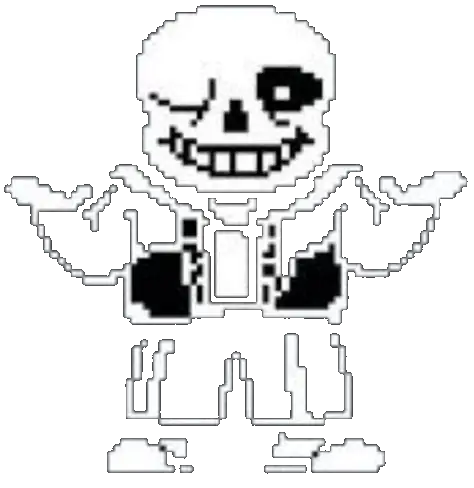
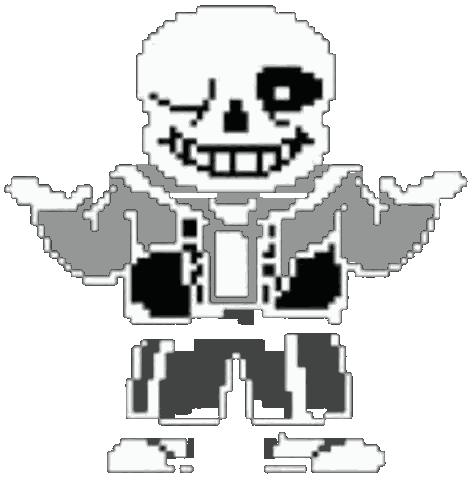
Sans sprites: fill transparent jacket/pants (grey tones, black pockets) so the body is no longer invisible; cache-bust
Claude-Session: https://claude.ai/code/session_015dETkK63Reb6JNnJAvDzmD

diff --git a/index.html b/index.html
@@ -1156,11 +1156,11 @@
     const SANS_HURT = new Image();
     let SANS_HURT_O = null;
     SANS_HURT.onload = () => { SANS_HURT_O = outlineSprite(SANS_HURT, 5, '#0b0b0b'); };
-    SANS_HURT.src = 'assets/sans-hurt.png';            // Sans ngồi gục
+    SANS_HURT.src = 'assets/sans-hurt.png?v=2';            // Sans ngồi gục
     const SANS_CUT = new Image();
     let SANS_CUT_O = null;
     SANS_CUT.onload = () => { SANS_CUT_O = outlineSprite(SANS_CUT, 4, '#0b0b0b'); };
-    SANS_CUT.src = 'assets/sans-cut.png';              // Sans đứng, vết chém đỏ ngang ngực
+    SANS_CUT.src = 'assets/sans-cut.png?v=2';              // Sans đứng, vết chém đỏ ngang ngực
     function outlineSprite(img, o, col) {                            // viền đen quanh sprite trắng cho dễ nhìn trên nền sáng
       const c = document.createElement('canvas'); c.width = img.width + o * 2; c.height = img.height + o * 2;
       const g = c.getContext('2d'), k = document.createElement('canvas'); k.width = img.width; k.height = img.height;
@@ -2348,7 +2348,7 @@
     // ----- Chuyển slide trong chế độ tim xanh -----
     // Chuyển tới slide kế (dir = +1: click, chém) hoặc slide trước (dir = -1: Backspace, tan)
     // ----- Slide 9.5 (Sans quiz): không có trong danh sách tim đỏ / tim xanh, chỉ xuất hiện khi bấm tiếp từ slide 9 ở chế độ tim xanh -----
-    const QUIZ_V = '20261124a';
+    const QUIZ_V = '20261124b';
     const quiz = { on: false };
     const quizEl = document.getElementById('quiz95');
     // Tải sẵn nhạc kết trong lúc người xem ở slide 9.5: vào slide 10 là chạy ngay (trình duyệt dùng lại bản đã tải)
@@ -2362,7 +2362,7 @@
     let quizWarm = false;
     function prefetchQuiz() {
       if (quizWarm) return; quizWarm = true;
-      const small = ['slide95-sans.html?embed&v=' + QUIZ_V, 'assets/papyrus.png', 'assets/papyrus-bw-anim.png', 'assets/papyrus-faces.png', 'assets/papyrus-head.png', 'assets/cauldron-px.png', 'assets/sans-head.png', 'assets/sans-shake.png', 'assets/sans-shrug.png', 'assets/sans-sleep.png', 'assets/gaster.png', 'assets/gaster-b.png',
+      const small = ['slide95-sans.html?embed&v=' + QUIZ_V, 'assets/papyrus.png', 'assets/papyrus-bw-anim.png', 'assets/papyrus-faces.png', 'assets/papyrus-head.png', 'assets/cauldron-px.png', 'assets/sans-head.png', 'assets/sans-shake.png?v=2', 'assets/sans-shrug.png?v=2', 'assets/sans-sleep.png?v=2', 'assets/gaster.png', 'assets/gaster-b.png',
         'assets/sfx-correct.mp3', 'assets/sfx-nuhuh.mp3', 'assets/sfx-prize.mp3', 'assets/sfx-rock.mp3', 'assets/sfx-sans-talk.mp3', 'assets/sfx-pap-nyeh.mp3', 'assets/sfx-pap-talk.mp3', 'assets/sfx-gaster-talk.mp3', 'assets/sfx-gaster-vanish.mp3', 'assets/sfx-wheel.mp3'];
       const big = ['assets/music-sans-select.mp3', 'assets/music-papyrus.mp3', 'assets/music-gaster.mp3', 'assets/music-megalovania.mp3'];
       (async () => { for (const u of small.concat(big)) { try { const r = await fetch(u); await r.blob(); } catch (e) { } await new Promise((res) => setTimeout(res, 150)); } })();
@@ -3101,7 +3101,7 @@
       tasks.push(['Fonts', font("16px 'Press Start 2P'", 'font1')], ['Fonts', font("700 20px Tinos", 'font2')], ['Fonts', font("400 20px 'Public Sans'", 'font3')]);
       slideImages.forEach((p, i) => tasks.push(['Slide ' + (i + 1), img(p)]));
       Object.values(START_IMG).forEach((p) => tasks.push(['Slide', img(p)]));
-      ['anim-blank.png', 'watch.png', 'spear.png', 'blaster.png', 'sans-cut.png', 'sans-hurt.png', 'stage.jpg', 's3-tram.jpg', 's4-tram.jpg', 's5-kitchen.jpg', 's6-water.jpg', 's7-games.jpg', 's7-tv.jpg', 's8-past.jpg', 's8-present.jpg',
+      ['anim-blank.png', 'watch.png', 'spear.png', 'blaster.png', 'sans-cut.png?v=2', 'sans-hurt.png?v=2', 'stage.jpg', 's3-tram.jpg', 's4-tram.jpg', 's5-kitchen.jpg', 's6-water.jpg', 's7-games.jpg', 's7-tv.jpg', 's8-past.jpg', 's8-present.jpg',
         'anim-brush.png', 'anim-pencil.png', 'icon-designer.png', 'icon-image.png', 'icon-presenter.png', 'icon-researcher.png'].forEach((f) => tasks.push(['Images', img('assets/' + f)]));
       tasks.push(['Style', get('slides.css')], ['Effects', get('fx-post.js')]);
       AUD.list.forEach((a) => { if (a.preload !== 'none' && !a.loop) tasks.push(['Audio', () => sfxBoostLoad(a)]); });      // mọi tiếng hiệu ứng: tải + giải mã sẵn

diff --git a/slide95-sans.html b/slide95-sans.html
@@ -265,7 +265,7 @@
     <div id="hint">CLICK SANS</div>
   </div>
 
-  <img id="sans" src="assets/sans-shrug.png" alt="Sans" draggable="false">
+  <img id="sans" src="assets/sans-shrug.png?v=2" alt="Sans" draggable="false">
   <div id="sansSp"></div>
 
   <img id="gasBig" src="assets/gaster.png" alt="" draggable="false">
@@ -437,8 +437,8 @@
   };
   // sheet: ảnh ghép khung hình (cột x hàng), n khung, fps
   const SHEETS = {
-    shake: { src: 'assets/sans-shake.png', fw: 199, fh: 268, cols: 6, n: 12, fps: 10 },
-    sleep: { src: 'assets/sans-sleep.png', fw: 175, fh: 248, cols: 9, n: 71, fps: 10 }
+    shake: { src: 'assets/sans-shake.png?v=2', fw: 199, fh: 268, cols: 6, n: 12, fps: 10 },
+    sleep: { src: 'assets/sans-sleep.png?v=2', fw: 175, fh: 248, cols: 9, n: 71, fps: 10 }
   };
   const sp = $('sansSp'); let spTimer = 0;
   function playSheet(name, h, left, top) {
